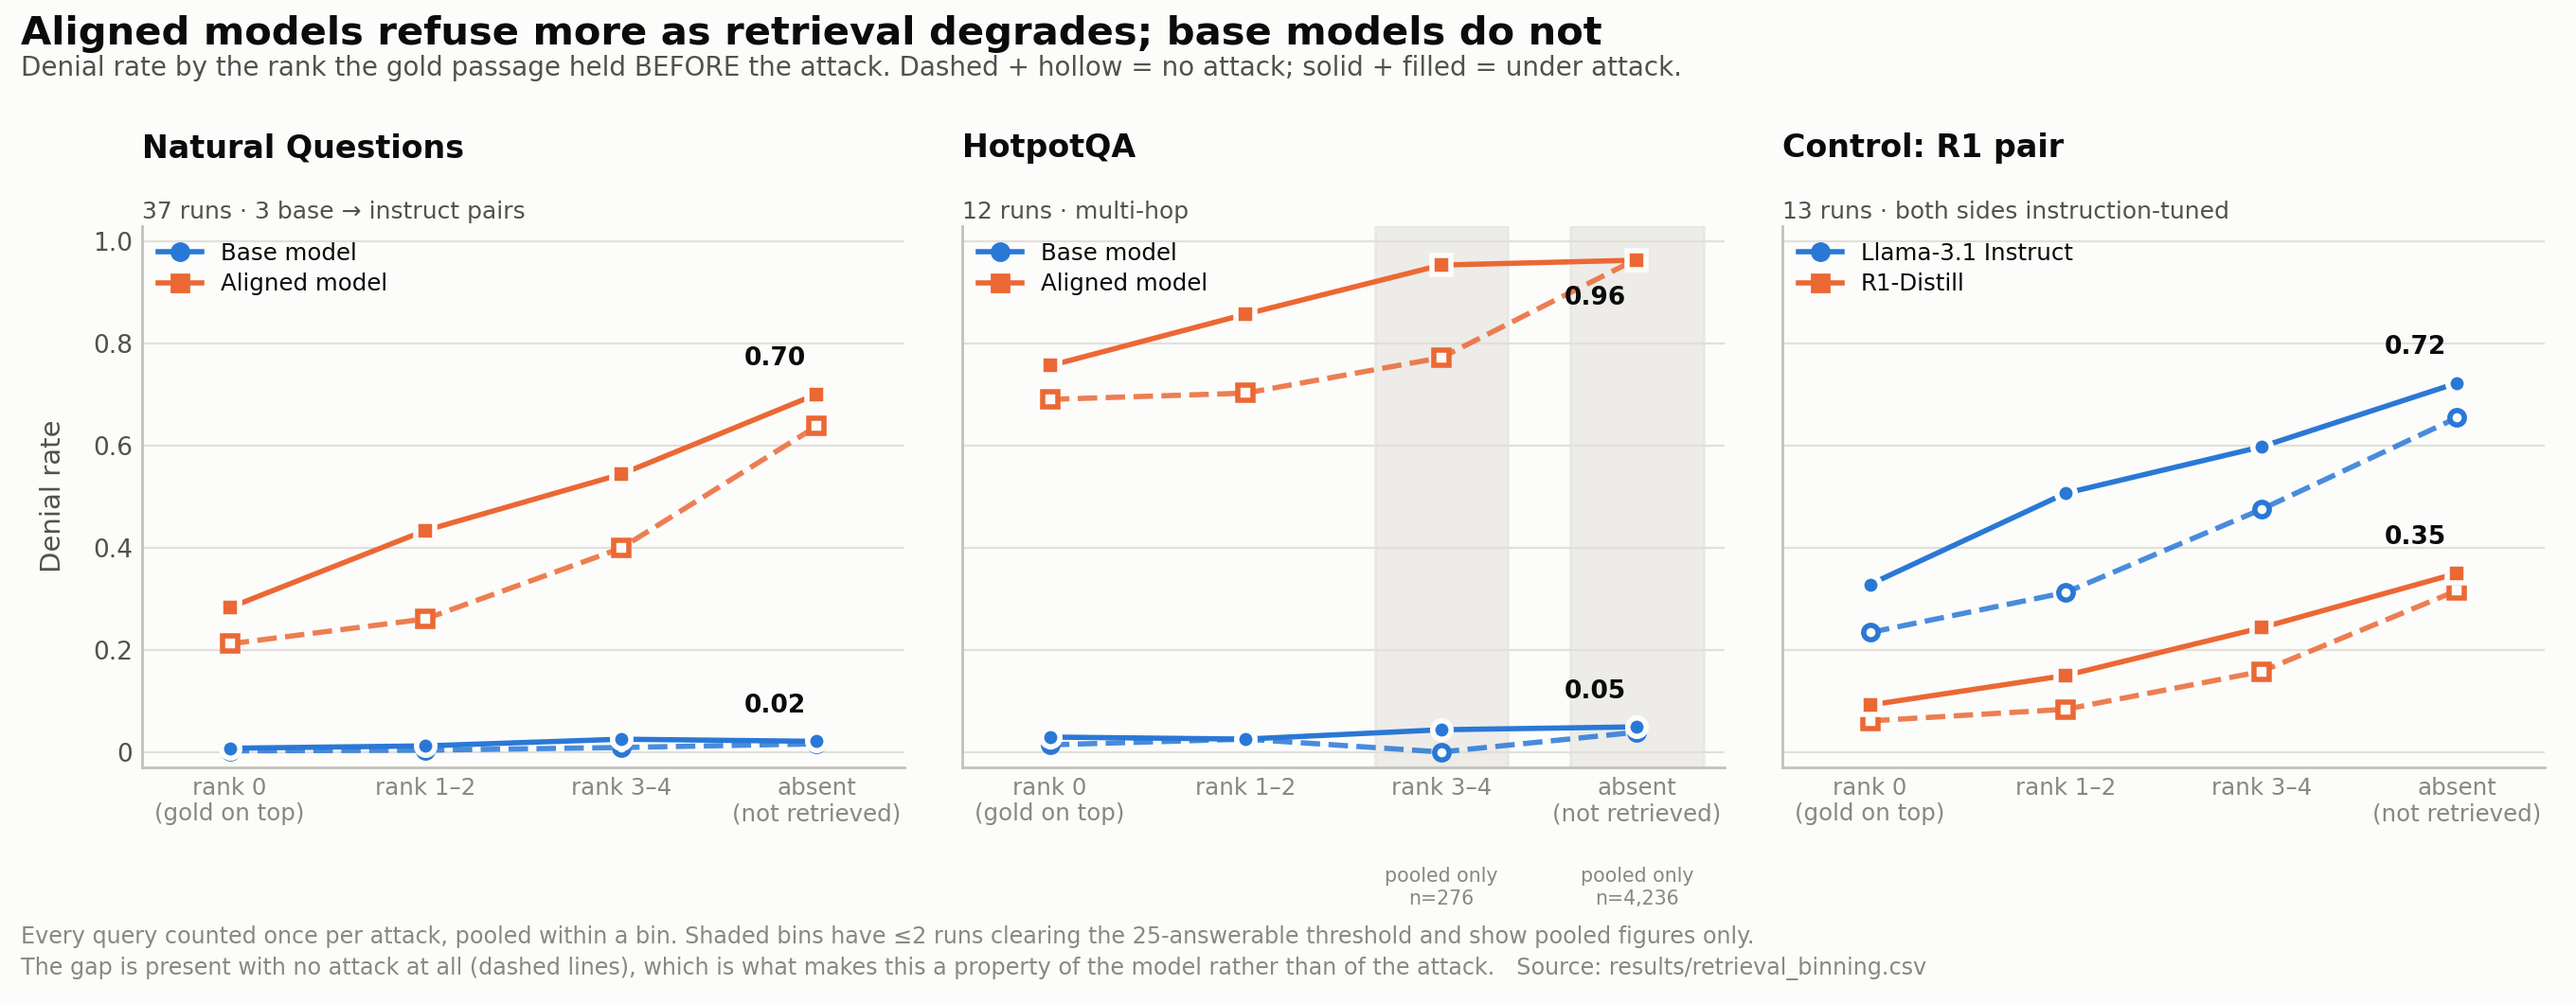
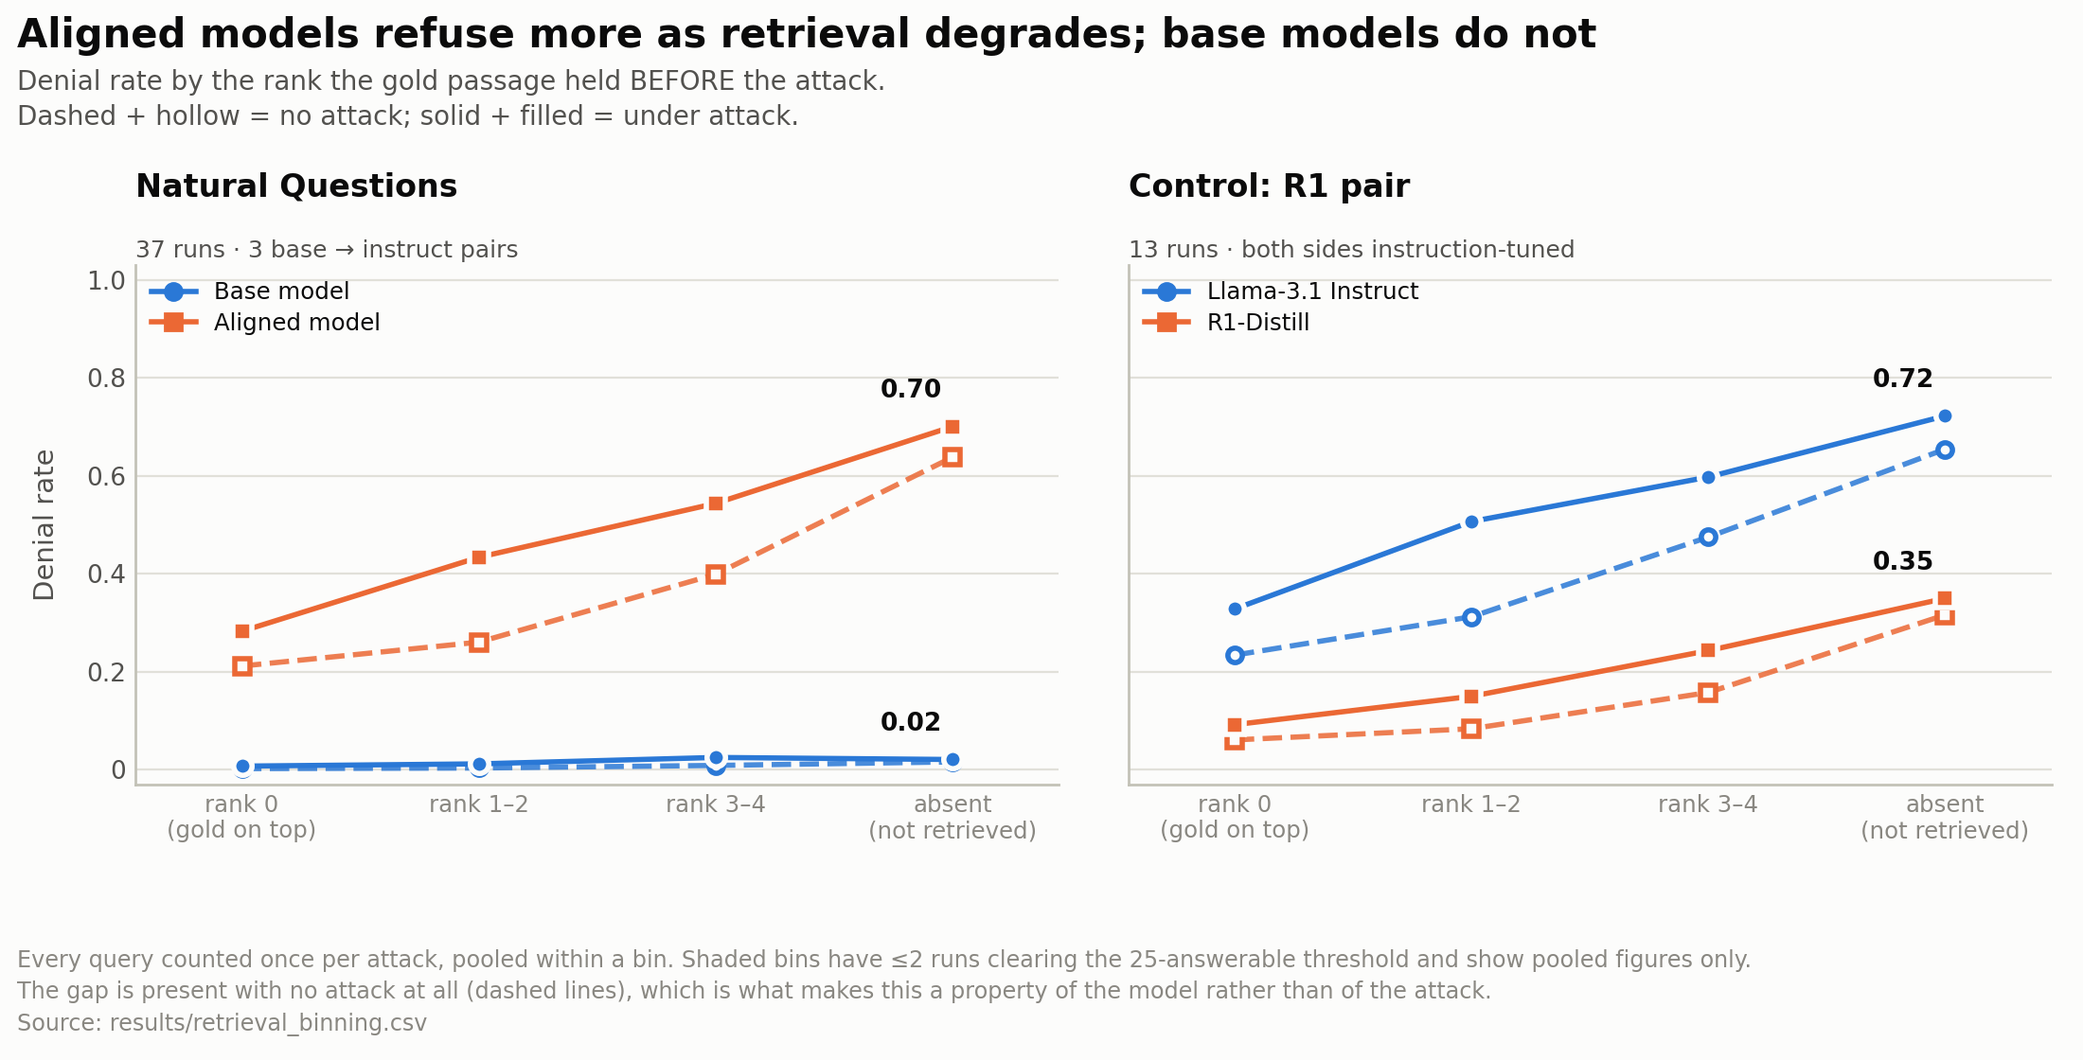
Drop the withdrawn HotpotQA panel from the retrieval gradient figure
The figure now shows Natural Questions and the R1 control pair only.
The report copy and caption are updated to match.

diff --git a/scripts/plot_retrieval_gradient.py b/scripts/plot_retrieval_gradient.py
@@ -5,10 +5,13 @@ denial rate against the bin the gold passage occupied *before* the attack.
 
 The visual argument is a divergence, not a level. Within each panel the aligned
 line climbs as retrieval degrades while the base line stays flat on the floor:
-retrieval sensitivity is a property of the aligned model, not of RAG. The third
+retrieval sensitivity is a property of the aligned model, not of RAG. The second
 panel is the control — both sides of the R1 pair are instruction-tuned, and both
 climb, which is what the mechanism predicts and what a "base models are simply
 different" account does not.
+
+HotpotQA is not plotted: that corpus was withdrawn from the analysis, and its
+row in the CSV is kept only for the record.
 
 Colour carries the model side; line style carries whether an attack was present.
 That keeps the palette at the two validated categorical slots already used by
@@ -47,12 +50,10 @@ BIN_ORDER = ["rank 0", "rank 1-2", "rank 3-4", "absent"]
 BIN_LABELS = ["rank 0\n(gold on top)", "rank 1–2", "rank 3–4", "absent\n(not retrieved)"]
 
 # (csv group, panel title, subtitle). The R1 pair goes last: it is the control,
-# and it reads as one only after the first two have established the pattern.
+# and it reads as one only after the first panel has established the pattern.
 PANELS = [
     ("NQ (excl. llama-r1)", "Natural Questions",
      "37 runs · 3 base → instruct pairs"),
-    ("HotpotQA", "HotpotQA",
-     "12 runs · multi-hop"),
     ("NQ llama-r1 only", "Control: R1 pair",
      "13 runs · both sides instruction-tuned"),
 ]
@@ -90,7 +91,7 @@ def main() -> None:
         raise SystemExit(f"{CSV_PATH} not found — run scripts/retrieval_binning.py --csv first")
     by_group = load()
 
-    fig, axes = plt.subplots(1, 3, figsize=(13.6, 5.3), sharey=True)
+    fig, axes = plt.subplots(1, len(PANELS), figsize=(11.0, 5.6), sharey=True)
     fig.patch.set_facecolor(SURFACE)
 
     x = list(range(len(BIN_ORDER)))
@@ -187,21 +188,21 @@ def main() -> None:
         fontsize=15, fontweight="bold", color=INK, x=0.008, ha="left", y=0.985,
     )
     fig.text(
-        0.008, 0.925,
-        "Denial rate by the rank the gold passage held BEFORE the attack. "
+        0.008, 0.935,
+        "Denial rate by the rank the gold passage held BEFORE the attack.\n"
         "Dashed + hollow = no attack; solid + filled = under attack.",
-        fontsize=10, color=INK_SECONDARY, ha="left",
+        fontsize=10, color=INK_SECONDARY, ha="left", va="top", linespacing=1.4,
     )
     fig.text(
         0.008, 0.028,
         "Every query counted once per attack, pooled within a bin. Shaded bins have "
         f"≤{THIN_CELL_MAX_RUNS} runs clearing the 25-answerable threshold and show pooled figures only.\n"
         "The gap is present with no attack at all (dashed lines), which is what makes this a "
-        "property of the model rather than of the attack.   Source: results/retrieval_binning.csv",
+        "property of the model rather than of the attack.\nSource: results/retrieval_binning.csv",
         fontsize=8.6, color=INK_MUTED, ha="left", linespacing=1.5,
     )
 
-    fig.subplots_adjust(left=0.055, right=0.988, top=0.775, bottom=0.235, wspace=0.075)
+    fig.subplots_adjust(left=0.065, right=0.985, top=0.75, bottom=0.26, wspace=0.075)
     fig.savefig(OUT_PATH, dpi=200, facecolor=SURFACE)
     print(f"wrote {OUT_PATH.relative_to(REPO_ROOT)}")
 

diff --git a/report/chapters/results.tex b/report/chapters/results.tex
@@ -151,11 +151,11 @@ safety account does not.
 \includegraphics[width=\textwidth]{retrieval_gradient}
 \caption[Denial by pre-attack gold rank]{Denial rate by the rank the gold
 passage held before the attack. Dashed: clean; solid: under attack. Aligned
-denial rises as retrieval degrades; base denial does not.}
+denial rises as retrieval degrades; base denial does not. Left: Natural
+Questions, 37 runs over three base$\to$instruct pairs. Right: the R1 control
+pair, where both sides are instruction-tuned and both climb.}
 \label{fig:gradient}
 \end{figure}
-\todo{Regenerate fig:gradient without the withdrawn HotpotQA panel
-(scripts/plot\_retrieval\_gradient.py).}
 
 \paragraph{3. The finding is not circular.} The strongest objection to the
 thesis is that a faithful model \emph{should} decline when its evidence has
